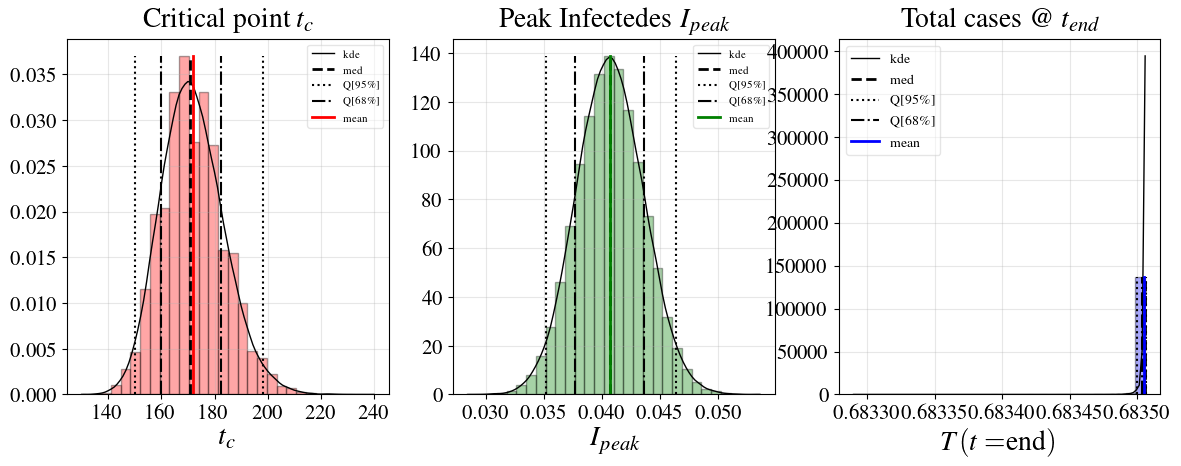
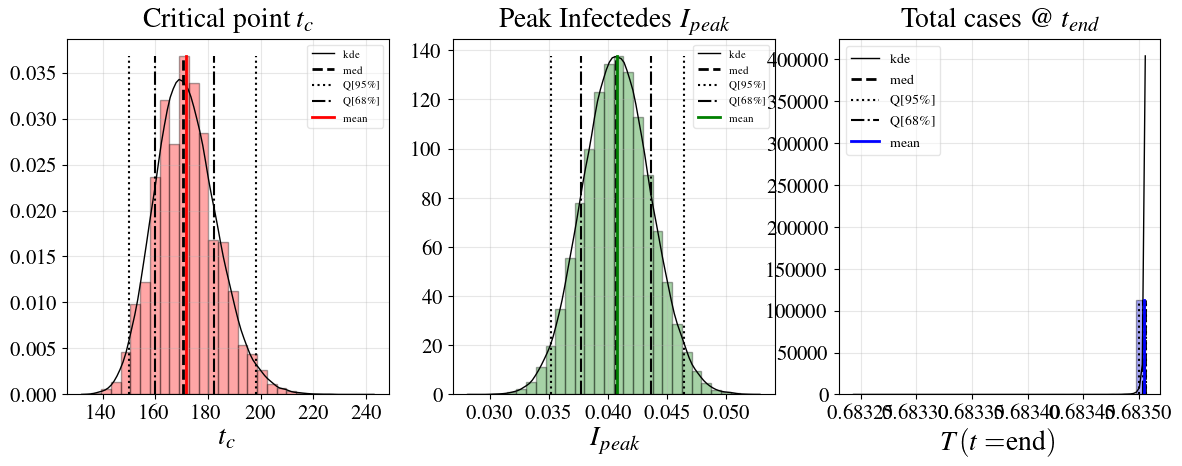
added stochastic seir for log-normal and gamma

diff --git a/epimodels/stochastic_seir.py b/epimodels/stochastic_seir.py
@@ -63,7 +63,7 @@ class StochasticSEIR():
                 gamma_inv_dist = stats.gamma(a = gamma_inv_shape, loc = gamma_inv_loc, scale = gamma_inv_scale)
             
             if sigma_inv_scale == 0:
-                sigma_inv_dist = stats.norm(loc = sigma_inv_loc, scale = gamma_inv_scale)
+                sigma_inv_dist = stats.norm(loc = sigma_inv_loc, scale = sigma_inv_scale)
             else:
                 sigma_inv_dist = stats.gamma(a = sigma_inv_shape, loc = sigma_inv_loc, scale = sigma_inv_scale)
             
@@ -174,7 +174,7 @@ class StochasticSEIR():
             samples['gamma'] = 1/self.gamma_inv_dist
         
         if isinstance(self.sigma_inv_dist, stats._distn_infrastructure.rv_frozen):
-            samples['sigma'] = 1/self.sigma_inv_dist.rvs()
+            samples['sigma'] = 1/self.sigma_inv_dist.rvs(1)[0]
         else:
             samples['sigma'] = 1/self.sigma_inv_dist
 
@@ -221,5 +221,12 @@ class StochasticSEIR():
 
 if __name__ == '__main__':
     
-    model = StochasticSEIR()
-    traces, samples = model.project(200, progbar = False)
+    sim_kwargs = loadSimulationParams(5, 0, plot_data = 0, header = 'SEIR')
+    prob_params, plot_vars = getSEIRTestingParams(1, 'gamma',**sim_kwargs)
+    init_cond = {}
+    init_cond['I0'] = sim_kwargs['I0']
+    init_cond['R0'] = sim_kwargs['R0']
+    init_cond['E0'] = sim_kwargs['E0']
+    model = StochasticSEIR(sim_kwargs['N'], *prob_params, **init_cond)
+    
+    

diff --git a/ex1c_sensitivitySampling_vanillaSEIR_model.py b/ex1c_sensitivitySampling_vanillaSEIR_model.py
@@ -25,7 +25,9 @@ def computeSEIR_MCresults(SEIR_traces, SEIR_params, *prob_params, **sim_kwargs):
     # Critical outputs from realizations
     CO_samples = getCriticalPointsDistribution(I_samples, R_samples)
     # Variables: tc_samples, Ipeak_samples, Tend_samples = CO_samples
-    computeCriticalPointsStats(SEIR_params, CO_samples, **sim_kwargs)
+    plot_data_quant  = 0; plot_regress_lines = 0; do_histograms = 1; do_contours = 1; do_mask = 1
+    plot_options = plot_data_quant, plot_regress_lines, do_histograms, do_contours, do_mask
+    computeCriticalPointsStats(SEIR_params, CO_samples, plot_options, **sim_kwargs)
 
     plot_traces = 1
     if plot_traces:
@@ -126,7 +128,7 @@ if __name__ == '__main__':
         gamma, log-Normal (proper distributions)
         gaussian, uniform (not adequate for beta or gamma_{-1})
     """
-    #run(prob_type = 'log-normal', days = 500)
-    #run(prob_type = 'gamma', days = 500)
+    run(prob_type = 'log-normal', days = 500)
+    run(prob_type = 'gamma', days = 500)
     run(prob_type = 'gaussian', days = 500)
     run(prob_type = 'uniform', days = 500)

diff --git a/epimodels/sims.py b/epimodels/sims.py
@@ -265,7 +265,7 @@ def getSEIRTestingParams(test_num, prob_type, **sim_kwargs):
             text_error    =  r"$\beta \sim Gamma(.)$" + "\n" + r"$\gamma^{-1} \sim Gamma(.)$" + "\n" + r"$\sigma^{-1} \sim Gamma(.)$"
             
             
-        prob_params = (prob_type, beta_loc, beta_shape, beta_scale, gamma_inv_loc, gamma_inv_shape, gamma_inv_scale, sigma_inv_loc, sigma_inv_scale, sigma_inv_shape) 
+        prob_params = (prob_type, beta_loc, beta_shape, beta_scale, gamma_inv_loc, gamma_inv_shape, gamma_inv_scale, sigma_inv_loc, sigma_inv_shape, sigma_inv_scale) 
     
 
 

diff --git a/epimodels/plots.py b/epimodels/plots.py
@@ -224,6 +224,7 @@ def computeCriticalPointsStats(SIR_params, CO_samples, plot_options, **kwargs):
     worksheet.write_row(row_num, 5,  gamma_inv_stats)
     worksheet.write_row(row_num, 10, R0_stats)    
     worksheet.write_row(row_num, 15, tc_stats)
+    print(Ipeak_stats)
     worksheet.write_row(row_num, 20, Ipeak_stats)
     worksheet.write_row(row_num, 25, Tend_stats)
     
